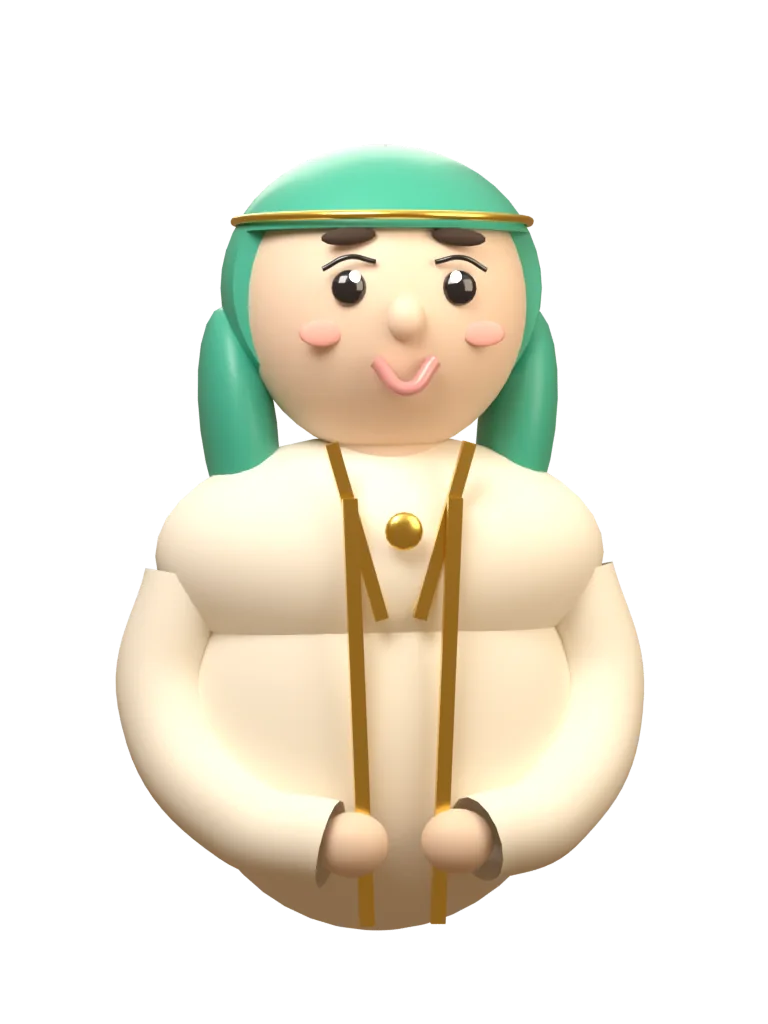
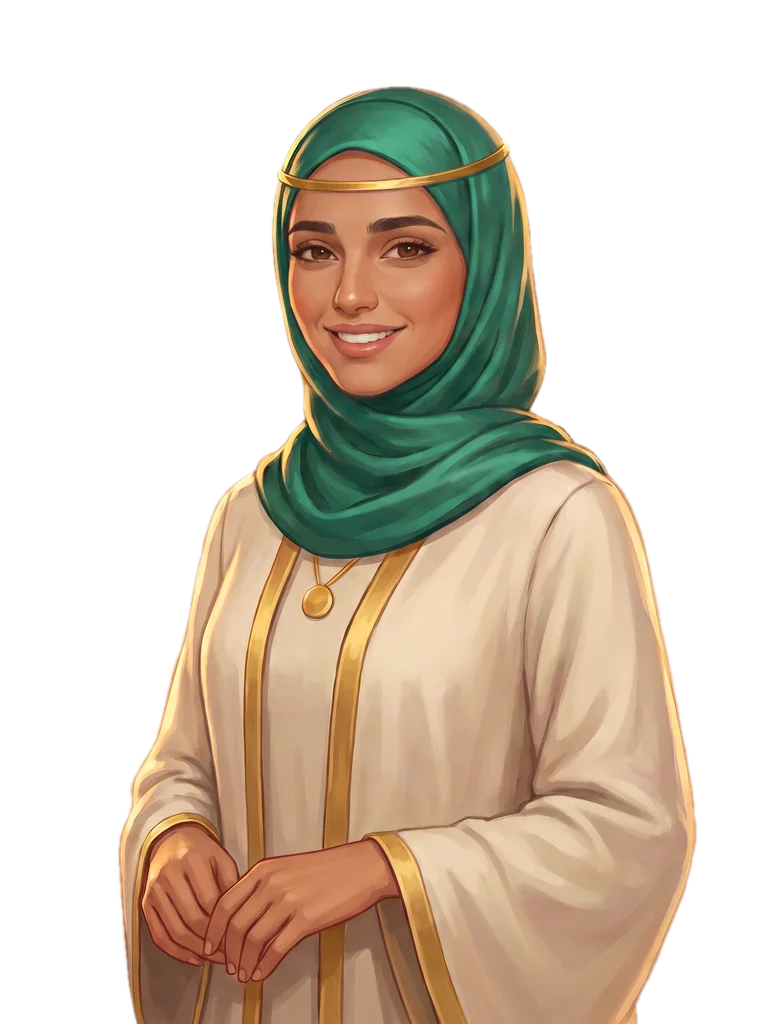
Paint Layla's story portraits
Replaces the Blender half-body Layla with semi-realistic painted portraits
(neutral, happy, surprised, worried), generated from the Blender render as
reference so the face, hijab band and colours match across expressions.
tools/art/cutout_portrait.py removes the flat backdrop and sizes them for
the scene player. Angry is not painted yet, so the firm answer falls back
to painted neutral rather than mixing in the 3D face.

Claude-Session: https://claude.ai/code/session_01AEhSnavJv8GSyPZMfViFZn

diff --git a/src/components/story/ScenePlayer.tsx b/src/components/story/ScenePlayer.tsx
@@ -7,9 +7,12 @@ import { CAST_NAMES, CastId, Expression, Scene, StagePos } from '../../story/typ
 import { assetUrl } from '../../utils/assetUrl';
 import './ScenePlayer.css';
 
-/** Rendered expressions per character (tools/blender/make_story_cast.py); anything else falls back to neutral. */
+/**
+ * Rendered expressions per character; anything else falls back to neutral. Layla is painted (docs/ASSETS.md, 3c;
+ * her angry face is still to come), the others are Blender renders from tools/blender/make_story_cast.py.
+ */
 const EXPRESSIONS: Partial<Record<CastId, Expression[]>> = {
-  layla: ['neutral', 'happy', 'surprised', 'worried', 'angry'],
+  layla: ['neutral', 'happy', 'surprised', 'worried'],
   noura: ['neutral', 'happy', 'surprised', 'worried'],
   rashid: ['neutral', 'angry', 'surprised'],
 };

diff --git a/tools/art/cutout_portrait.py b/tools/art/cutout_portrait.py
@@ -1,0 +1,55 @@
+"""Cut an illustrated story portrait out of its flat backdrop and size it for the scene player.
+
+The image model paints each portrait on a plain warm-beige backdrop (docs/ASSETS.md, section 3c). This samples
+that colour from the border, flood-fills everything connected to the edge that is close to it, feathers the
+edge, and writes a 768x1024 PNG with a transparent background. Convert to WebP with tools/art/to_webp.py.
+
+    python3 tools/art/cutout_portrait.py in.png public/assets/art/story/layla_happy.png
+"""
+import sys
+from collections import deque
+
+from PIL import Image, ImageFilter
+
+W, H = 768, 1024
+TOLERANCE = 30  # max RGB distance from the backdrop colour that still counts as backdrop
+
+
+def backdrop_colour(img):
+    w, h = img.size
+    px = img.load()
+    samples = [px[x, y] for x in range(0, w, 8) for y in (0, h - 1)] + [px[x, y] for y in range(0, h, 8) for x in (0, w - 1)]
+    samples.sort(key=sum)
+    return samples[len(samples) // 2]  # median by brightness, robust to a stray edge pixel
+
+
+def cutout(src, dst):
+    img = Image.open(src).convert('RGB').resize((W, H), Image.LANCZOS)
+    px = img.load()
+    bg = backdrop_colour(img)
+    tol2 = TOLERANCE * TOLERANCE
+    near = lambda c: (c[0] - bg[0]) ** 2 + (c[1] - bg[1]) ** 2 + (c[2] - bg[2]) ** 2 <= tol2
+
+    mask = Image.new('L', (W, H), 255)
+    m = mask.load()
+    queue = deque((x, y) for x in range(W) for y in (0, H - 1))
+    queue.extend((x, y) for y in range(H) for x in (0, W - 1))
+    while queue:
+        x, y = queue.popleft()
+        if m[x, y] == 0 or not near(px[x, y]):
+            continue
+        m[x, y] = 0
+        for nx, ny in ((x + 1, y), (x - 1, y), (x, y + 1), (x, y - 1)):
+            if 0 <= nx < W and 0 <= ny < H and m[nx, ny]:
+                queue.append((nx, ny))
+
+    # Shrink by a pixel to drop the beige fringe, then soften so the edge blends over any backdrop.
+    mask = mask.filter(ImageFilter.MinFilter(3)).filter(ImageFilter.GaussianBlur(1.2))
+    out = img.convert('RGBA')
+    out.putalpha(mask)
+    out.save(dst, optimize=True)
+    print(f'{src} -> {dst} (backdrop {bg})')
+
+
+if __name__ == '__main__':
+    cutout(sys.argv[1], sys.argv[2])

diff --git a/docs/ASSETS.md b/docs/ASSETS.md
@@ -78,7 +78,7 @@ Limits: these are clean stylized 3D props, not painterly game-art. Some are simp
   - Convert with `python3 tools/art/to_webp.py`.
 - **Voice:** every beat has a clip, `public/assets/audio/story/pro_*.mp3`, ElevenLabs `eleven_v4` (first take), trimmed and loudness-matched with ffmpeg. The casting is in `tools/voice/voices.json`; the narrator (`pro_narr_*`) reuses the jury's Ahmed MSA voice. A unit test fails if a beat has no voice or its file is missing. The lines still need a native-speaker listen, like the rest of the voice work.
 
-### 3c. Illustrated story portraits (planned; replaces the Blender half-bodies)
+### 3c. Illustrated story portraits (in progress; replaces the Blender half-bodies)
 
 The story cast moves to semi-realistic painted 2D portraits, closer to Hollywood Merge. Each one is generated with an image model, using the Blender renders above as the reference, so face, headwear and colours stay the same across expressions.
 
@@ -99,8 +99,18 @@ The story cast moves to semi-realistic painted 2D portraits, closer to Hollywood
 - **Expressions:**
   - Same as the Blender set: `neutral`, `happy`, `surprised`, `worried`, `angry`.
   - Only the face changes between them; clothing, light and framing stay identical.
+- **Pipeline (used for Layla, through the ElevenLabs connector):**
+  1. Generate the master from the Blender render as reference: `gemini-3-pro-image`, 4 variations, pick one.
+  2. Reframe the pick to 3:4 at 2K (node parameters `aspect_ratio: 3:4`, `resolution: 2K`) and pick the neutral.
+  3. Edit that neutral into each expression ("change only her facial expression to …; keep everything else exactly").
+  4. Cut out the flat backdrop and size to 768x1024: `python3 tools/art/cutout_portrait.py in.png public/assets/art/story/<name>.png`.
+  5. Convert with `python3 tools/art/to_webp.py` (about 47 KB each).
+- **Cost:** each image is about 1,830 ElevenLabs credits (about $0.37 at the time of writing).
+- **Status:**
+  - Layla: neutral, happy, surprised and worried are painted. Angry is not yet painted, so the firm answer shows painted neutral for now.
+  - Noura and Rashid: still Blender.
 - **Files:**
-  - Same names as today, `public/assets/art/story/<character>_<expression>.webp`, so no code changes.
+  - Same names as today, `public/assets/art/story/<character>_<expression>.webp`. The only code change is the per-character expression list in `ScenePlayer.tsx`.
   - The Blender renders stay reproducible from `tools/blender/make_story_cast.py` as the fallback and reference.
 
 ## 4. Voice lines
